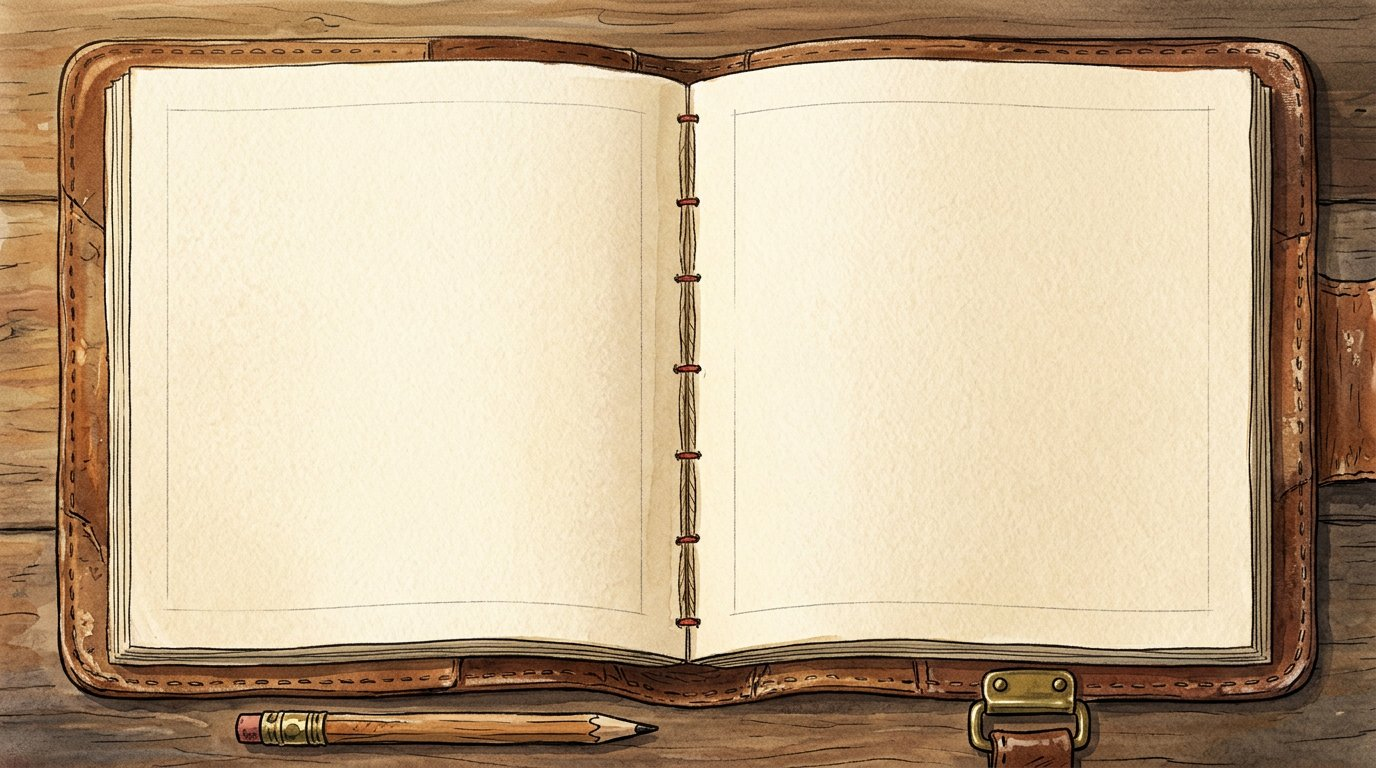
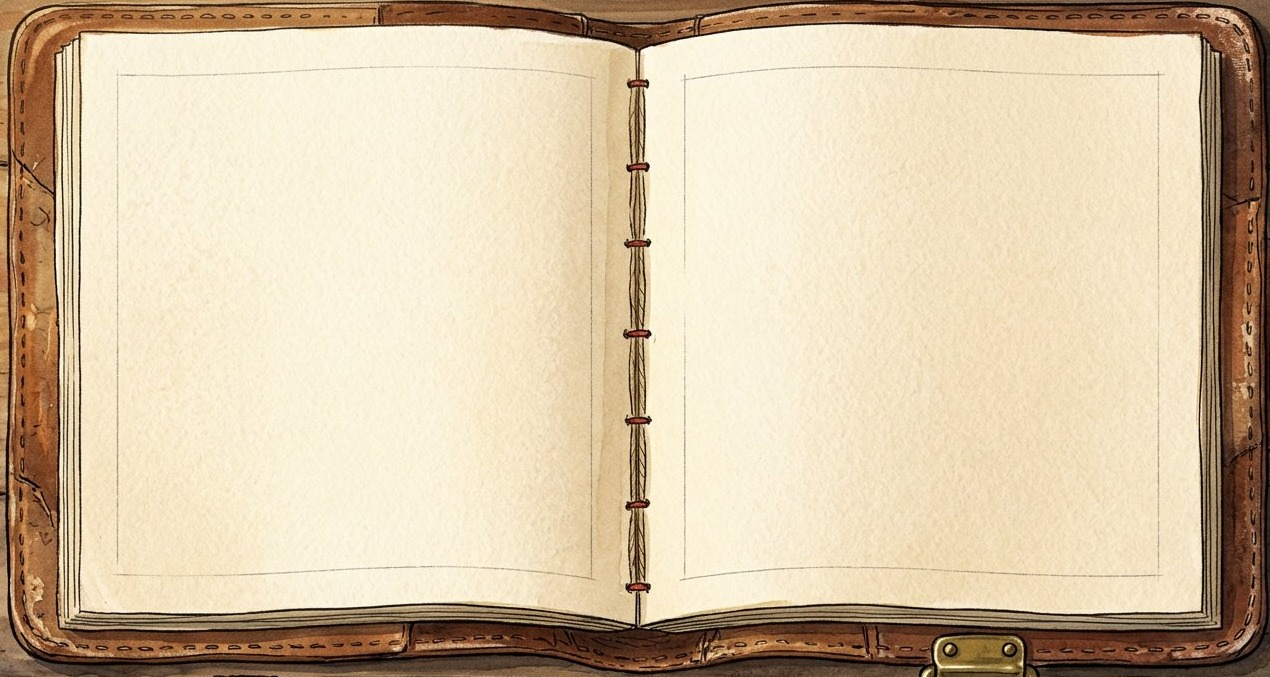
遊戲 4：筆記不再做全幅背景，改成左圖右字的打開記事簿。

diff --git a/static/js/flag.js b/static/js/flag.js
@@ -76,7 +76,7 @@
       var st = stationById(id);
       if (!st) return;
       (st.questions || []).forEach(function (q) { qs.push({ q: q, station: st }); });
-      (st.learn || []).forEach(function (p) { pages.push(p); });
+      (st.learn || []).forEach(function (p) { pages.push(Object.assign({}, p, { _station: st.id })); });
     });
     return { def: def, questions: qs, learn: pages };
   }).filter(function (s) { return s.questions.length; });
@@ -494,14 +494,56 @@
 
   /* the notes come first: read this run's pages from the last patrol's
      notebook, then the control panel appears and the fitting starts.
-     The notebook stays on the panel afterwards for checking. */
+     The notebook stays on the panel afterwards for checking. Each page
+     is an open spread: the picture on the left page, the words on the
+     right. */
+  function noteArts(page) {
+    if (page.art) return [page.art];
+    if (page._station === "poles") return ["flag-national", "flag-regional"];
+    if (page._station === "raise") return ["raise-1"];
+    return ["flag-national"];
+  }
+
+  function showNotesPage(pages, index) {
+    if (index >= pages.length) { buildMachine(); return; }
+    var page = pages[index];
+    clearScene();
+    var board = scene();
+    var spread = document.createElement("div");
+    spread.className = "notebook-open";
+    spread.innerHTML =
+      '<div class="notebook-page-left">'
+      + noteArts(page).map(function (a) {
+          return a.indexOf("raise") === 0 ? artImg(a, "notebook-page-img")
+                                          : cloth(a, "notebook-page-img");
+        }).join("")
+      + '</div>'
+      + '<div class="notebook-page-right">'
+      + '<h3>' + escapeHtml(t(page.title_zh, page.title_en)) + '</h3>'
+      + '<p>' + escapeHtml(t(page.body_zh, page.body_en)) + '</p>'
+      + (page.fact_zh ? '<p class="notebook-page-fact">' + escapeHtml(t(page.fact_zh, page.fact_en)) + '</p>' : '')
+      + '</div>';
+    board.appendChild(spread);
+    var last = index === pages.length - 1;
+    setProgress((stageIndex + 1) + " / " + stages.length + "  " + stageName()
+      + "  ·  " + t("旗", "Flag") + " " + stageIndex + "/4");
+    card.innerHTML = cardHtml(
+      stageName() + "  ·  " + t("上一隊的筆記", "The last patrol's notebook")
+        + "  ·  " + (index + 1) + " / " + pages.length,
+      t("上一隊的筆記", "The last patrol's notebook"),
+      "",
+      '<div class="cave-actions"><button class="btn primary" type="button" data-flag-next>'
+      + escapeHtml(last ? t("繼續", "Go on") : t("下一頁", "Next page")) + '</button></div>');
+    card.querySelector("[data-flag-next]").addEventListener("click", function () {
+      showNotesPage(pages, index + 1);
+    });
+  }
+
   function showStageNotes() {
     var s = stage();
     var pages = s ? s.learn : [];
     if (!pages.length) { buildMachine(); return; }
-    showStory(pages, 0,
-      stageName() + "  ·  " + t("上一隊的筆記", "The last patrol's notebook"),
-      function () { buildMachine(); }, "is-notes");
+    showNotesPage(pages, 0);
   }
 
   function showEnding() {

diff --git a/static/styles.css b/static/styles.css
@@ -4065,13 +4065,39 @@ body.is-game main { padding-top: 6px; }
   position: relative; width: min(100%, 46rem); height: 100%;
   margin: 0 auto;
 }
-/* the notes are read in an open notebook: the patrol's book lies open
-   behind the page's picture, which sits on the paper like a pasted print */
-.flag-board.is-notes {
-  background: url("img/quest/flag/pipe/notebook-bg.jpg") center 42% / contain no-repeat;
+/* the notes are read in an open notebook: picture on the left page,
+   description on the right page */
+.flag-board:has(.notebook-open) { width: min(100%, 60rem); }
+.notebook-open {
+  position: relative; width: 100%; aspect-ratio: 1270 / 677; margin: 0 auto;
+  background: url("img/quest/flag/pipe/notebook-bg.jpg") center / contain no-repeat;
+  display: grid; grid-template-columns: 1fr 1fr; column-gap: 7%;
+  padding: 7% 8.5% 9%; box-sizing: border-box; align-content: start;
+  filter: drop-shadow(0 16px 26px rgba(0,0,0,.4));
 }
-.flag-board.is-notes .pipe-story-prop { width: min(44%, 15rem); top: 46%; }
-.flag-board.is-notes .pipe-story-book { display: none; }
+.notebook-page-left {
+  display: flex; flex-direction: column; gap: .5rem;
+  align-items: center; justify-content: flex-start; padding-top: 1%;
+  min-height: 0;
+}
+.notebook-page-img {
+  width: min(100%, 17rem); max-height: 100%; object-fit: contain;
+  border-radius: .3rem; box-shadow: 0 6px 14px rgba(60, 40, 10, .35);
+}
+.notebook-page-left .notebook-page-img { flex: 0 1 auto; min-height: 0; }
+.notebook-page-right { color: #3b3121; min-height: 0; overflow: hidden; }
+.notebook-page-right h3 {
+  margin: .1rem 0 .45rem; color: #2f2413;
+  font-size: clamp(1rem, 2.2vw, 1.45rem); line-height: 1.25;
+}
+.notebook-page-right p {
+  margin: 0 0 .55rem; line-height: 1.6;
+  font-size: clamp(.82rem, 1.55vw, 1.02rem);
+}
+.notebook-page-fact {
+  border-left: 3px solid #b98a2f; background: rgba(185, 138, 47, .14);
+  padding: .3rem .55rem; font-weight: 700; border-radius: 0 .35rem .35rem 0;
+}
 
 /* the cloths the scout names and hangs — diagrams, drawn to the specification */
 .flag-cloth {
@@ -4407,6 +4433,10 @@ body.is-game main { padding-top: 6px; }
   .pipe-popup { inset: 1.5% 2%; padding: .65rem .7rem .8rem; }
   .pipe-fit { min-height: 5.4rem; }
   .pipe-note { top: 2.4rem; }
+  .notebook-open { padding: 6% 7.5% 8%; column-gap: 6%; }
+  .notebook-page-right h3 { font-size: .82rem; margin-bottom: .25rem; }
+  .notebook-page-right p { font-size: .64rem; line-height: 1.45; margin-bottom: .3rem; }
+  .notebook-page-img { width: min(100%, 9rem); }
   .pipe-piece-img { height: 2.7rem; }
 }
 

diff --git a/tests/test_flag_game.py b/tests/test_flag_game.py
@@ -110,8 +110,11 @@ def test_holes_stay_inside_the_black_board_and_answers_are_dealt_at_random():
     # the notes are shown before the machine, at the start of every run
     assert "function showStageNotes()" in js
     assert 'showStory(intro, 0, t("遊戲 4", "Game 4"), function () { showStageNotes(); });' in js
-    # … and read against an open-notebook background
-    assert '"is-notes"' in js and ".flag-board.is-notes" in css
+    # … and read in an open notebook: picture on the left page, words on
+    # the right, not as a background behind the story card
+    assert "notebook-open" in js and "notebook-page-left" in js
+    assert "notebook-page-right" in js and ".notebook-open" in css
+    assert ".flag-board.is-notes" not in css
     assert (pathlib.Path(__file__).resolve().parent.parent / "static" / "img"
             / "quest" / "flag" / "pipe" / "notebook-bg.jpg").is_file()
 
